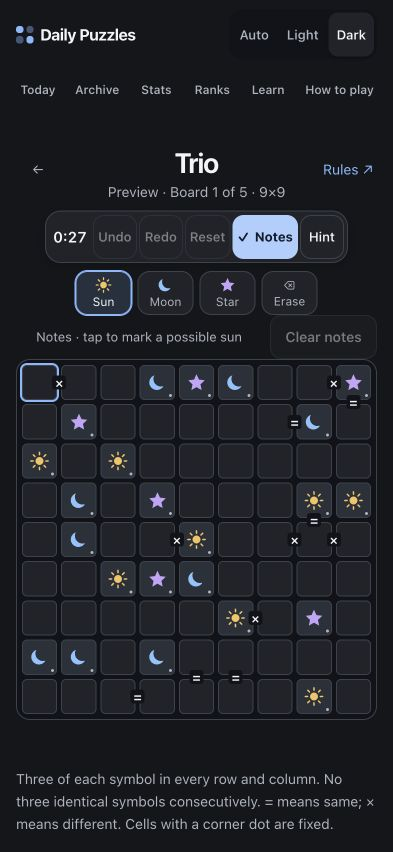
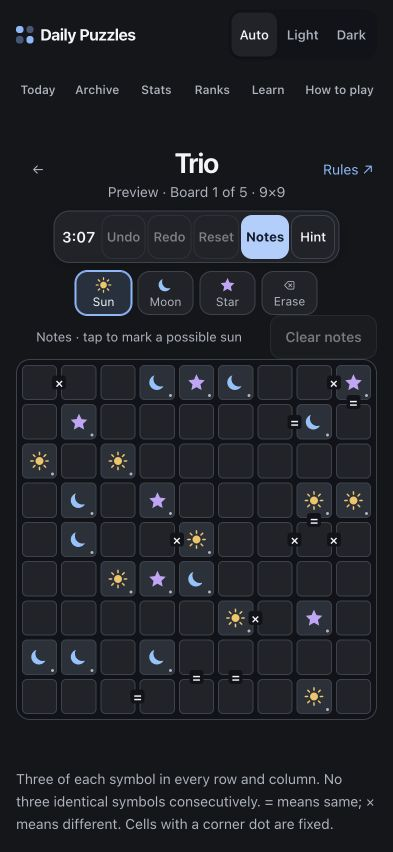
fix(ui): remove Notes checkmark

diff --git a/app/src/App.css b/app/src/App.css
@@ -327,9 +327,7 @@
   color: var(--primary-ink);
   border-color: var(--primary-bg);
   font-weight: 700;
-  gap: 0.35rem;
 }
-.tool-button.notes-toggle[aria-pressed='true']::before { content: '✓'; }
 
 .tool-button.primary {
   background: var(--primary-bg);
